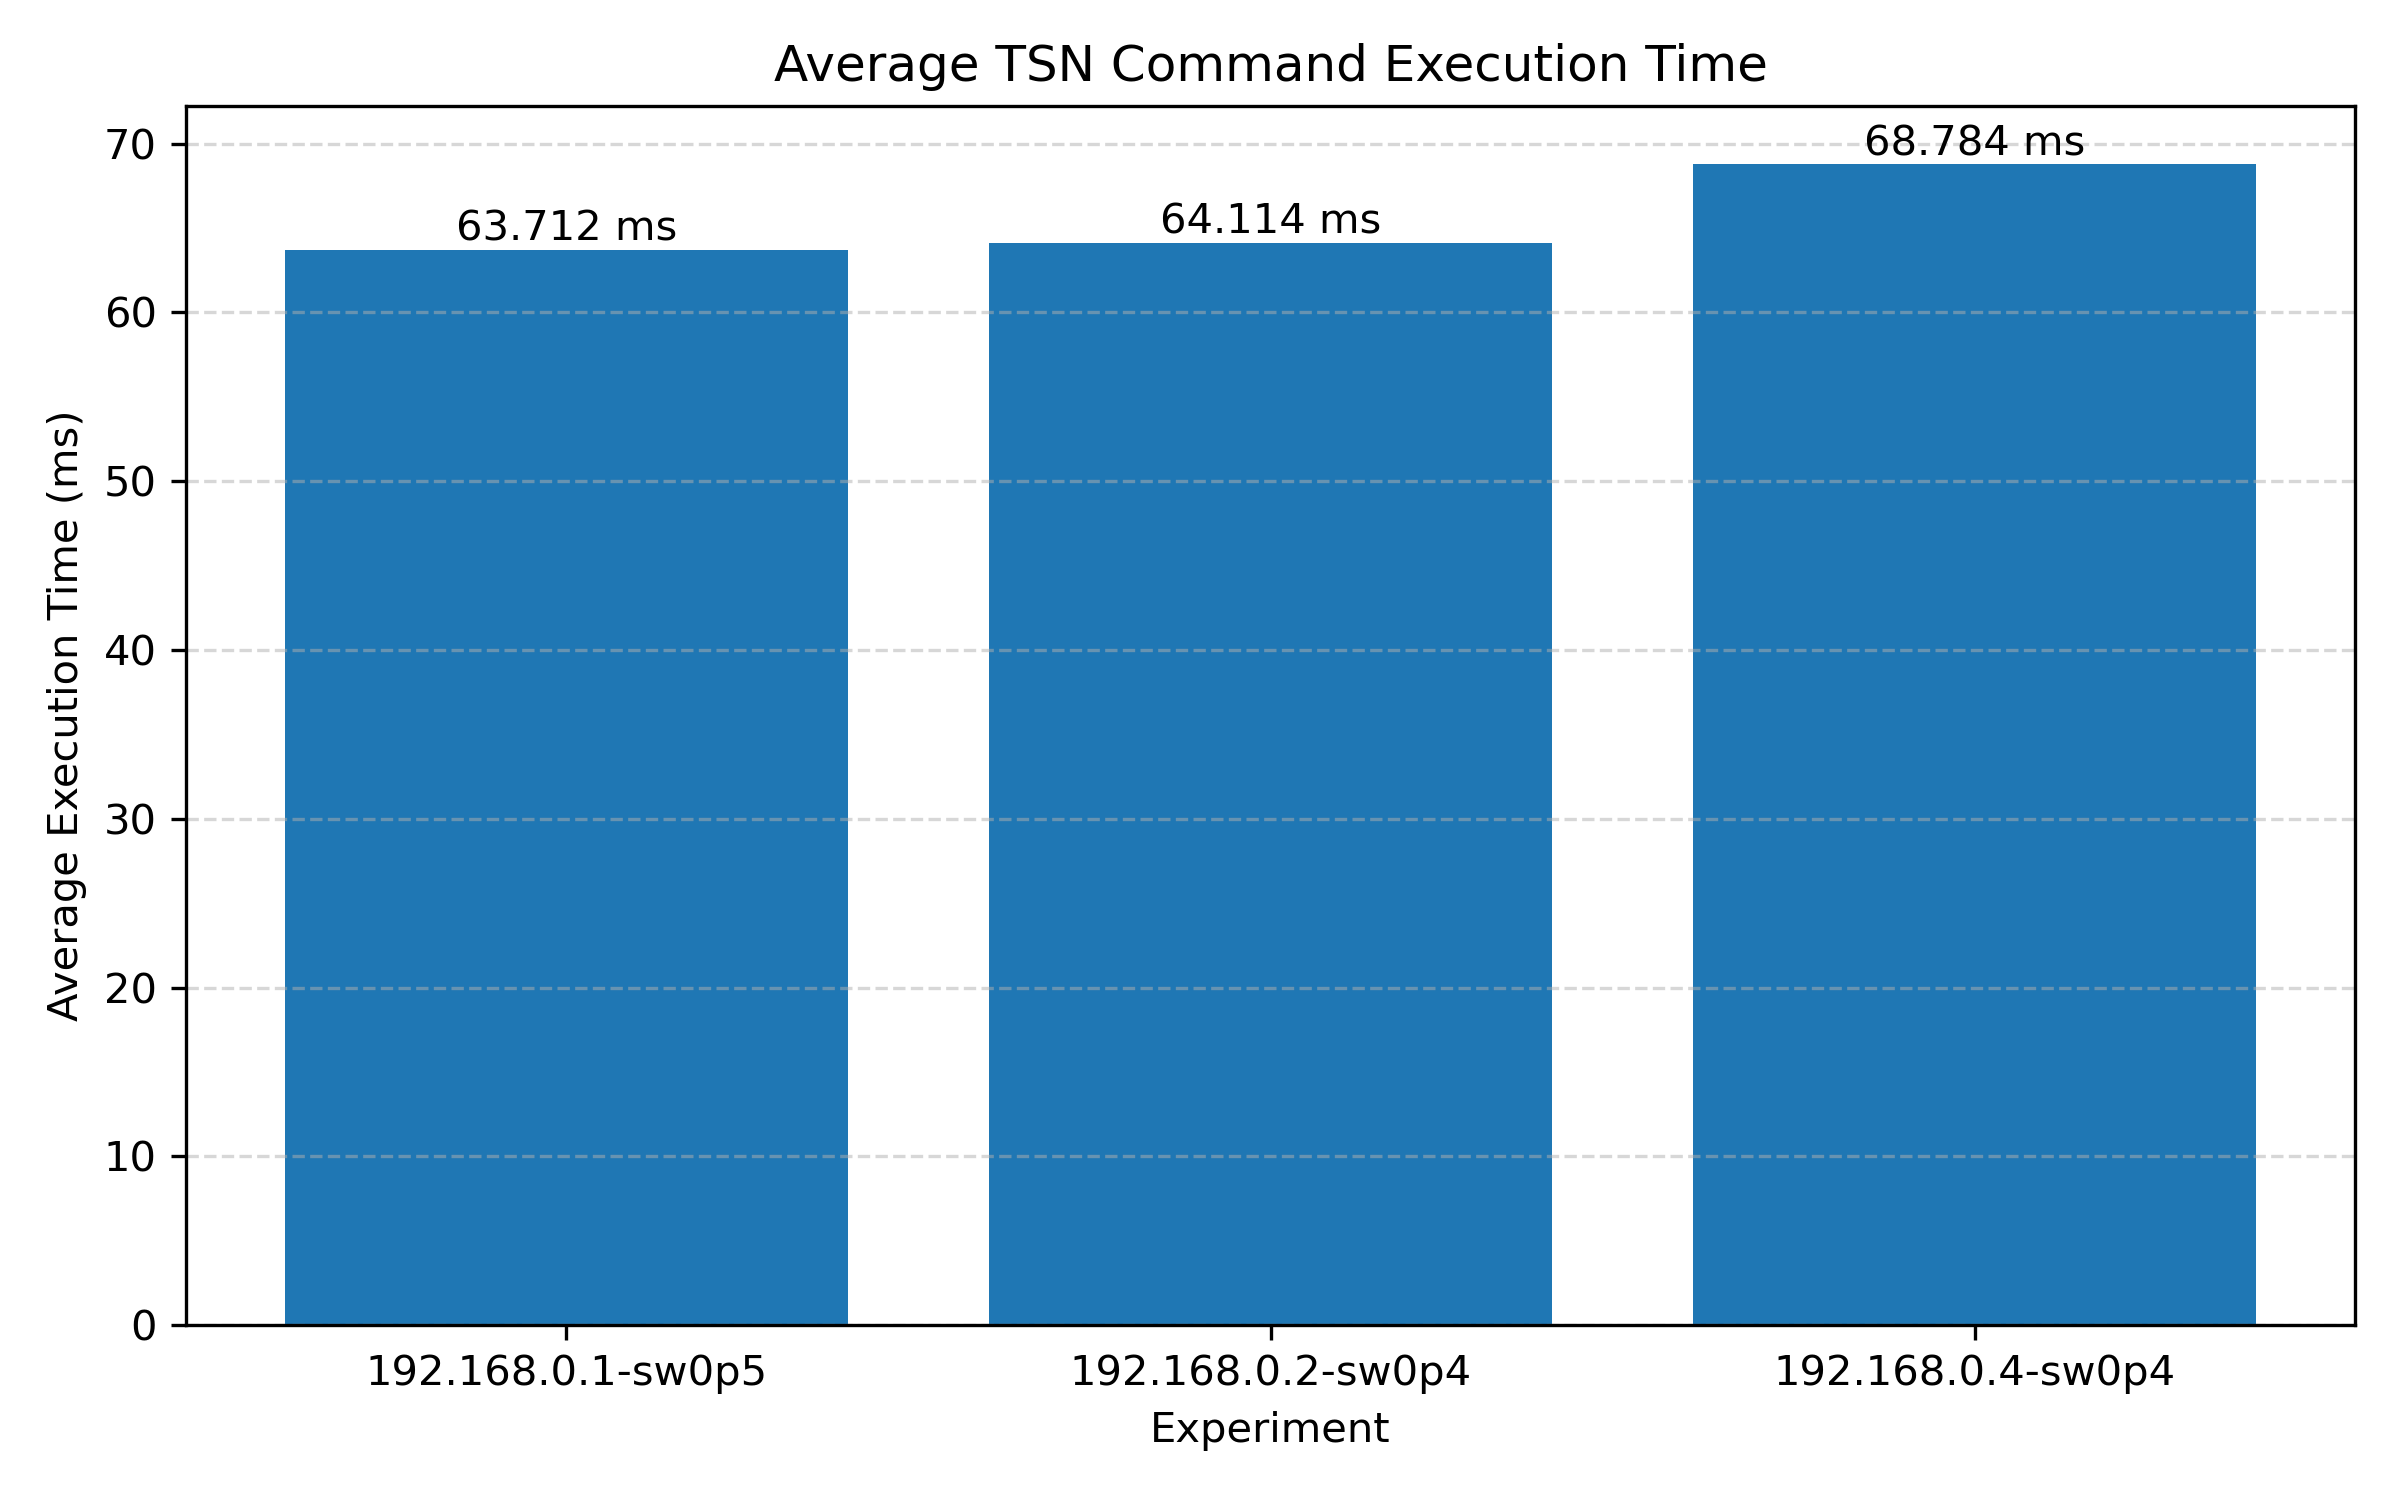
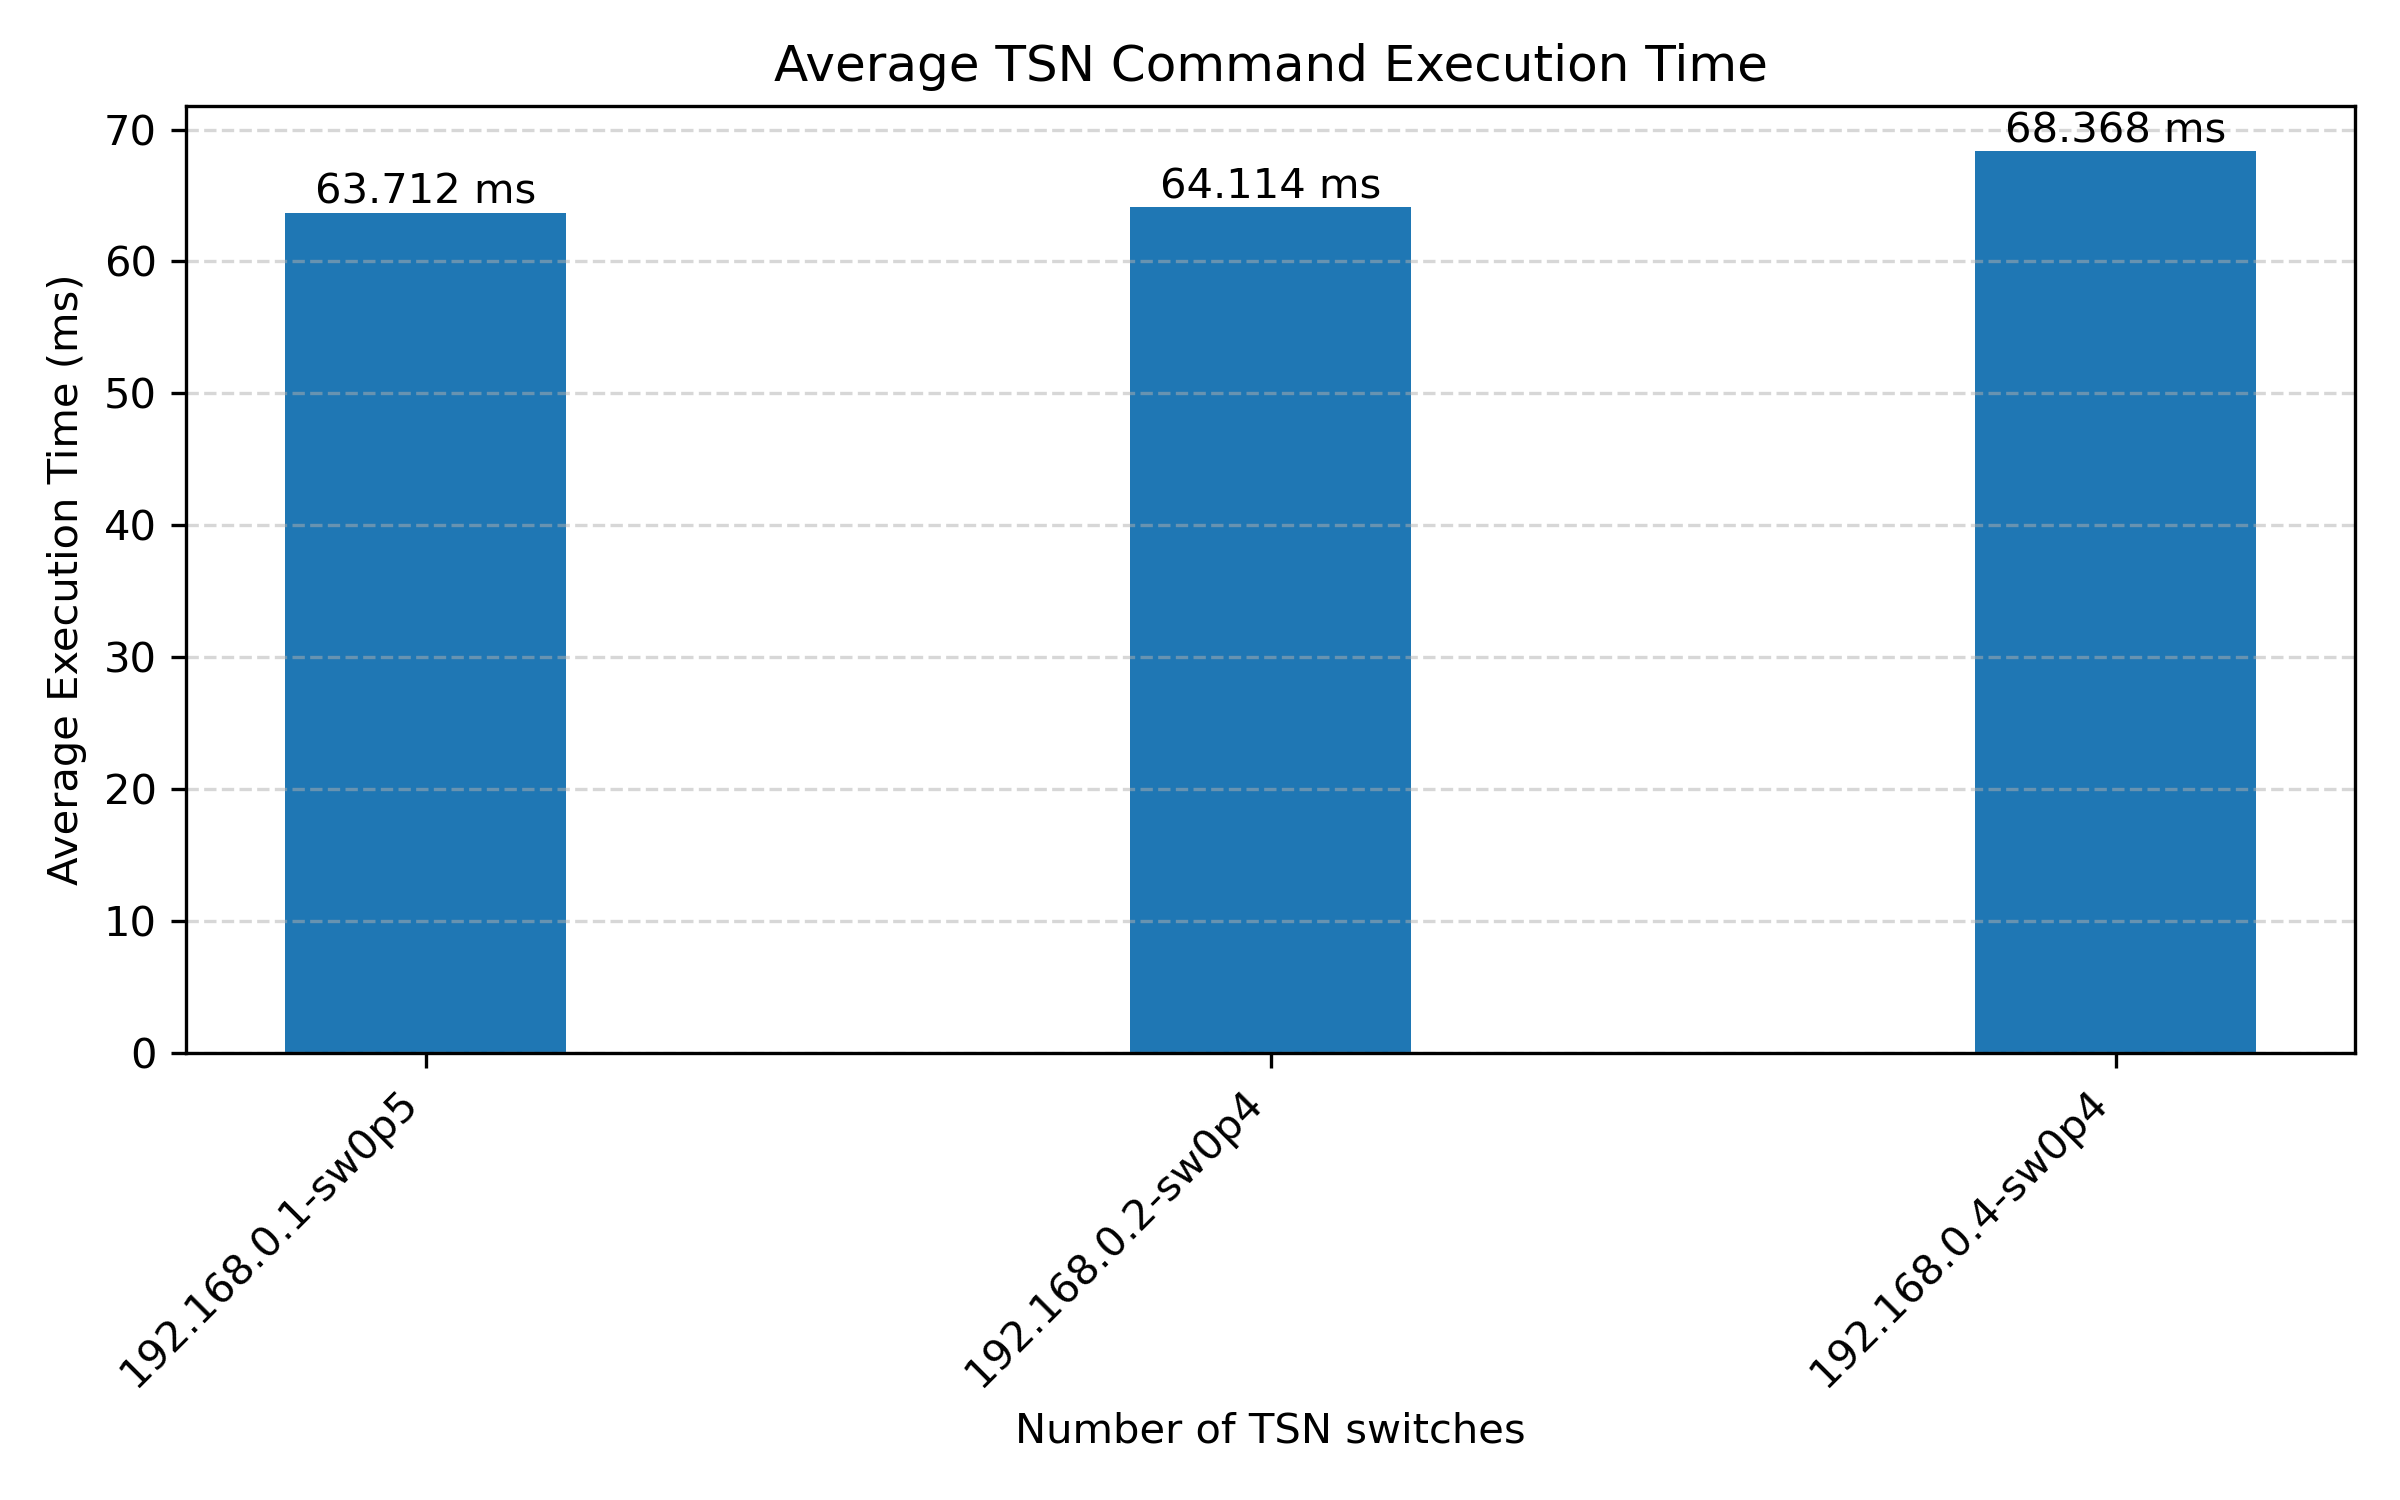
gcl update execution latency

diff --git a/gcl-schedule-update/result_manager.py b/gcl-schedule-update/result_manager.py
@@ -5,6 +5,7 @@ import csv
 import os
 import statistics
 import matplotlib.pyplot as plt
+import numpy as np
 
 
 def read_csv_file(csv_file, only_success=False):
@@ -75,7 +76,7 @@ def plot_line_chart(datasets, output_file):
             label=data["label"]
         )
 
-    plt.xlabel("Iteration")
+    plt.xlabel("Number of Iteration")
     plt.ylabel("Execution Time (ms)")
     plt.title("TSN Command Execution Time Across Iterations")
     plt.grid(True, linestyle="--", alpha=0.5)
@@ -98,13 +99,18 @@ def plot_average_bar_chart(datasets, output_file):
 
     plt.figure(figsize=(8, 5))
 
-    bars = plt.bar(labels, averages)
+    x = np.arange(len(labels)) * 0.6
+    bar_width = 0.2
+    
+    bars = plt.bar(x, averages, width=bar_width)
 
-    plt.xlabel("Experiment")
+    plt.xlabel("Number of TSN switches")
     plt.ylabel("Average Execution Time (ms)")
     plt.title("Average TSN Command Execution Time")
     plt.grid(axis="y", linestyle="--", alpha=0.5)
 
+    plt.xticks(x, labels, rotation=45, ha="right")
+    
     for bar, avg in zip(bars, averages):
         plt.text(
             bar.get_x() + bar.get_width() / 2,
